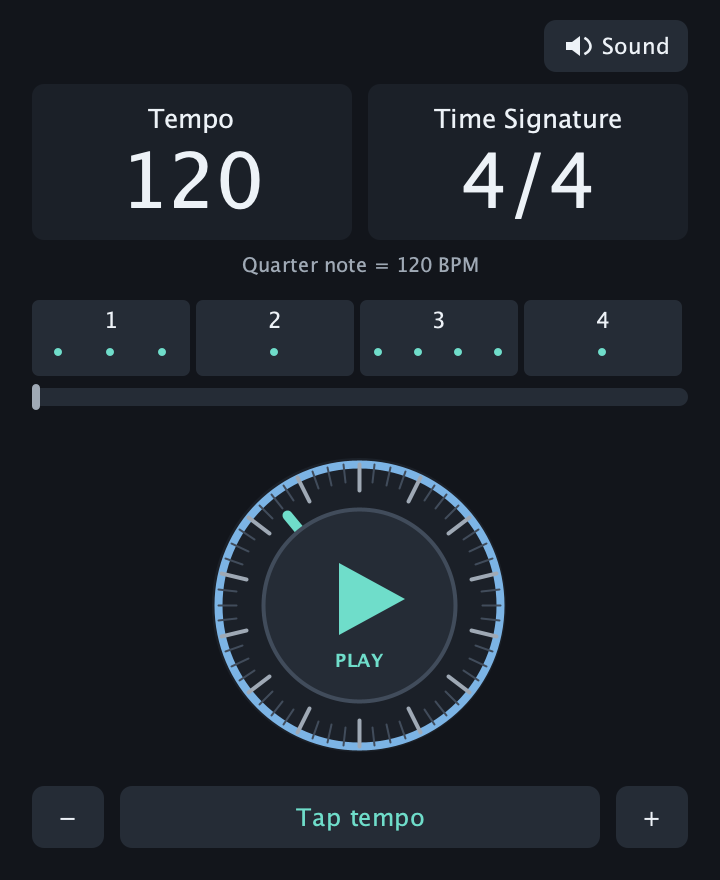
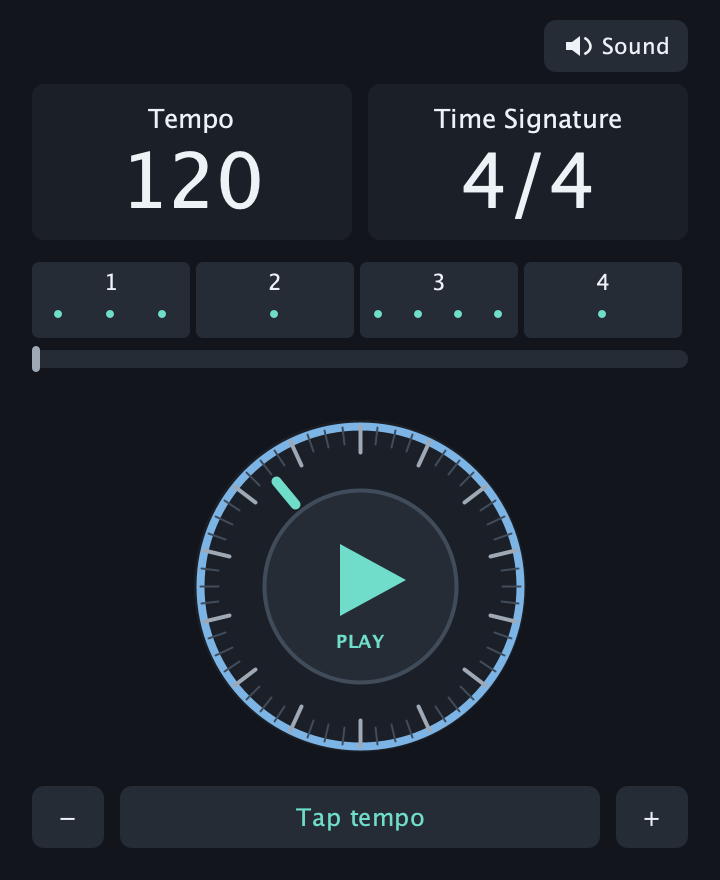
fix: use whole-number tempos and remove redundant note label

Changed region(s): [[0.0306, 0.2761, 0.9778, 0.8591]]

diff --git a/src/main/java/app/pulseforge/ui/MainWindow.java b/src/main/java/app/pulseforge/ui/MainWindow.java
@@ -17,7 +17,6 @@ public final class MainWindow extends JFrame {
     private final TempoWheel wheel;
     private final JButton tempo = Theme.button("");
     private final JButton signature = Theme.button("");
-    private final JLabel beatUnit = Theme.label("");
     private final MovingBeatBar beatBar;
     private final TimeSignatureDialog signatureDialog;
     private final SettingsDialog soundDialog;
@@ -64,9 +63,6 @@ public final class MainWindow extends JFrame {
         readout.add(signature);
         readout.setPreferredSize(new Dimension(328, 78));
         top.add(readout, BorderLayout.CENTER);
-        beatUnit.setHorizontalAlignment(SwingConstants.CENTER);
-        beatUnit.setFont(new Font("SansSerif", Font.PLAIN, 10));
-        top.add(beatUnit, BorderLayout.SOUTH);
         root.add(top, BorderLayout.NORTH);
 
         var middle = Theme.panel(new BorderLayout(0, 8));
@@ -124,22 +120,21 @@ public final class MainWindow extends JFrame {
 
     private void sync(MetronomeSettings settings) {
         wheel.setBpm(settings.bpm());
-        String bpm = settings.bpm() == Math.rint(settings.bpm())
-                ? Integer.toString((int) settings.bpm()) : String.format("%.1f", settings.bpm());
+        String bpm = Integer.toString((int) settings.bpm());
         tempo.setText("<html><center><span style='font-size:10px'>Tempo</span><br><span style='font-size:29px'>" + bpm + "</span></center></html>");
         signature.setText("<html><center><span style='font-size:10px'>Time Signature</span><br><span style='font-size:29px'>"
                 + settings.beatsPerBar() + "/" + settings.beatUnit() + "</span></center></html>");
-        beatUnit.setText(MetronomeSettings.noteName(settings.beatUnit()) + " = " + bpm + " BPM");
         beatBar.repaint();
     }
 
     private void editTempo() {
-        var input = new JSpinner(new SpinnerNumberModel(state.get().bpm(), 20, 300, .1));
+        var input = new JSpinner(new SpinnerNumberModel((int) state.get().bpm(), 20, 300, 1));
+        input.setEditor(new JSpinner.NumberEditor(input, "0"));
         if (JOptionPane.showConfirmDialog(this, input, "Tempo (BPM)", JOptionPane.OK_CANCEL_OPTION,
                 JOptionPane.PLAIN_MESSAGE) == JOptionPane.OK_OPTION) {
             try {
                 input.commitEdit();
-                state.setBpm(((Number) input.getValue()).doubleValue());
+                state.setBpm(((Number) input.getValue()).intValue());
             } catch (java.text.ParseException ignored) { }
         }
     }
@@ -149,8 +144,8 @@ public final class MainWindow extends JFrame {
         if (!taps.isEmpty() && now - taps.getLast() > 3_100_000_000L) taps.clear();
         taps.addLast(now);
         while (taps.size() > 7) taps.removeFirst();
-        if (taps.size() > 1) state.setBpm(Math.round(600_000_000_000.0 * (taps.size() - 1)
-                / (taps.getLast() - taps.getFirst())) / 10.0);
+        if (taps.size() > 1) state.setBpm(Math.round(60_000_000_000.0 * (taps.size() - 1)
+                / (taps.getLast() - taps.getFirst())));
     }
 
     private void bind(String key, String name, Runnable action) {

diff --git a/src/main/java/app/pulseforge/ui/TempoWheel.java b/src/main/java/app/pulseforge/ui/TempoWheel.java
@@ -11,16 +11,17 @@ import java.awt.geom.Path2D;
 import java.util.function.DoubleConsumer;
 
 final class TempoWheel extends JComponent {
-    private double bpm;
+    private int bpm;
     private DoubleConsumer changeListener = value -> {};
     private Runnable transportAction = () -> {};
     private TransportState transportState = TransportState.STOPPED;
     private int dragY;
     private double dragBpm;
+    private double scrollRemainder;
     private boolean draggingDial;
 
     TempoWheel(double bpm) {
-        this.bpm = bpm;
+        setBpm(bpm);
         setPreferredSize(new Dimension(218, 200));
         setMinimumSize(getPreferredSize());
         setMaximumSize(getPreferredSize());
@@ -32,6 +33,7 @@ final class TempoWheel extends JComponent {
                 draggingDial = !insideTransport(event.getX(), event.getY());
                 dragY = event.getY();
                 dragBpm = TempoWheel.this.bpm;
+                scrollRemainder = 0;
             }
 
             @Override public void mouseReleased(MouseEvent event) {
@@ -49,7 +51,10 @@ final class TempoWheel extends JComponent {
             }
 
             @Override public void mouseWheelMoved(MouseWheelEvent event) {
-                setFromUser(TempoWheel.this.bpm - event.getPreciseWheelRotation());
+                scrollRemainder -= event.getPreciseWheelRotation();
+                int steps = (int) scrollRemainder;
+                scrollRemainder -= steps;
+                if (steps != 0) setFromUser(TempoWheel.this.bpm + steps);
             }
         };
         addMouseListener(mouse);
@@ -70,11 +75,12 @@ final class TempoWheel extends JComponent {
     void setChangeListener(DoubleConsumer listener) { changeListener = listener; }
     void setTransportAction(Runnable action) { transportAction = action; }
     void setTransportState(TransportState value) { transportState = value; repaint(); }
-    void setBpm(double value) { bpm = Math.max(20, Math.min(300, value)); repaint(); }
+    void setBpm(double value) { bpm = (int) Math.round(Math.clamp(value, 20, 300)); repaint(); }
 
     private void setFromUser(double value) {
-        setBpm(Math.round(Math.max(20, Math.min(300, value)) * 10) / 10.0);
-        changeListener.accept(bpm);
+        int previous = bpm;
+        setBpm(value);
+        if (bpm != previous) changeListener.accept(bpm);
     }
 
     private boolean insideTransport(int mouseX, int mouseY) {

diff --git a/src/test/java/app/pulseforge/model/MetronomeSettingsTest.java b/src/test/java/app/pulseforge/model/MetronomeSettingsTest.java
@@ -48,11 +48,16 @@ class MetronomeSettingsTest {
 
     @Test void oldGlobalRhythmPreferencesMigrateToEachBeat() {
         var prefs = new MemoryPreferences();
+        prefs.putDouble("bpm", 120.7);
         prefs.put("subdivision", "EIGHTH");
         prefs.putInt("unit", 8);
         var state = new MetronomeState(prefs);
+        assertEquals(121, state.get().bpm());
         assertTrue(state.get().patterns().stream().allMatch(p -> p.division() == Subdivision.EIGHTH));
         state.setPattern(0, Subdivision.TRIPLET);
+        state.setBpm(119.2);
+        assertEquals(119, new MetronomeState(prefs).get().bpm());
+        assertEquals(119, prefs.getInt("bpm", 0));
         assertEquals(Subdivision.TRIPLET, new MetronomeState(prefs).get().patterns().getFirst().division());
     }
 }

diff --git a/src/main/java/app/pulseforge/model/MetronomeSettings.java b/src/main/java/app/pulseforge/model/MetronomeSettings.java
@@ -11,7 +11,7 @@ public record MetronomeSettings(
     public static final List<Integer> NOTE_VALUES = List.of(1, 2, 4, 8, 16, 32);
 
     public MetronomeSettings {
-        bpm = Double.isFinite(bpm) ? Math.clamp(bpm, 20, 300) : 120;
+        bpm = Double.isFinite(bpm) ? Math.round(Math.clamp(bpm, 20, 300)) : 120;
         beatsPerBar = Math.clamp(beatsPerBar, 1, 12);
         beatUnit = NOTE_VALUES.contains(beatUnit) ? beatUnit : 4;
         volume = Double.isFinite(volume) ? Math.clamp(volume, 0, 1) : .72;

diff --git a/src/main/java/app/pulseforge/model/MetronomeState.java b/src/main/java/app/pulseforge/model/MetronomeState.java
@@ -120,7 +120,7 @@ public final class MetronomeState {
     }
 
     private void save(MetronomeSettings s) {
-        prefs.putDouble("bpm", s.bpm());
+        prefs.putInt("bpm", (int) s.bpm());
         prefs.putInt("beats", s.beatsPerBar());
         prefs.putInt("unit", s.beatUnit());
         prefs.putDouble("volume", s.volume());

diff --git a/src/test/java/app/pulseforge/audio/AccurateAudioEngineTest.java b/src/test/java/app/pulseforge/audio/AccurateAudioEngineTest.java
@@ -34,7 +34,7 @@ class AccurateAudioEngineTest {
     }
 
     @Test void fractionalSampleRoundingDoesNotAccumulateOverAnHour() {
-        var s = mixed(137.3);
+        var s = mixed(137);
         var clock = new BeatClock(RATE, s, BeatClock.Position.beginning());
         long hour = RATE * 3600L;
         long beatNumber = 0;

diff --git a/README.md b/README.md
@@ -6,13 +6,13 @@ A compact macOS metronome built with Java 21 and Spring. The app includes its ow
 
 ## Use it
 
-- **Tempo:** scroll or drag the outer wheel, use − / +, tap the tempo, or click the BPM to type a value.
+- **Tempo:** scroll or drag the outer wheel, use − / +, tap the tempo, or click the BPM to type a value. Tempo uses whole numbers from 20–300 BPM, in 1 BPM steps.
 - **Play / Pause:** click the center of the wheel. Pause holds the current beat position.
 - **Time Signature:** click the displayed fraction to set 1–12 beats per bar and a note value of 1, 2, 4, 8, 16 or 32.
 - **Each beat:** inside Time Signature, select a numbered beat, choose its note pattern, then toggle individual sounds into rests. Accents and whole-beat muting are also available.
 - **Sound:** the top-right control opens output-device selection, volume, click sounds and GarageBand WAV/AIFF import.
 
-The BPM counts the time-signature note. At 120 BPM in 4/16, each sixteenth-note beat lasts half a second. The note value is shown beneath the tempo and time signature.
+The BPM counts the time-signature note. At 120 BPM in 4/16, each sixteenth-note beat lasts half a second.
 
 For the example **triplet / crotchet / semiquavers / crotchet** in 4/4:
 
